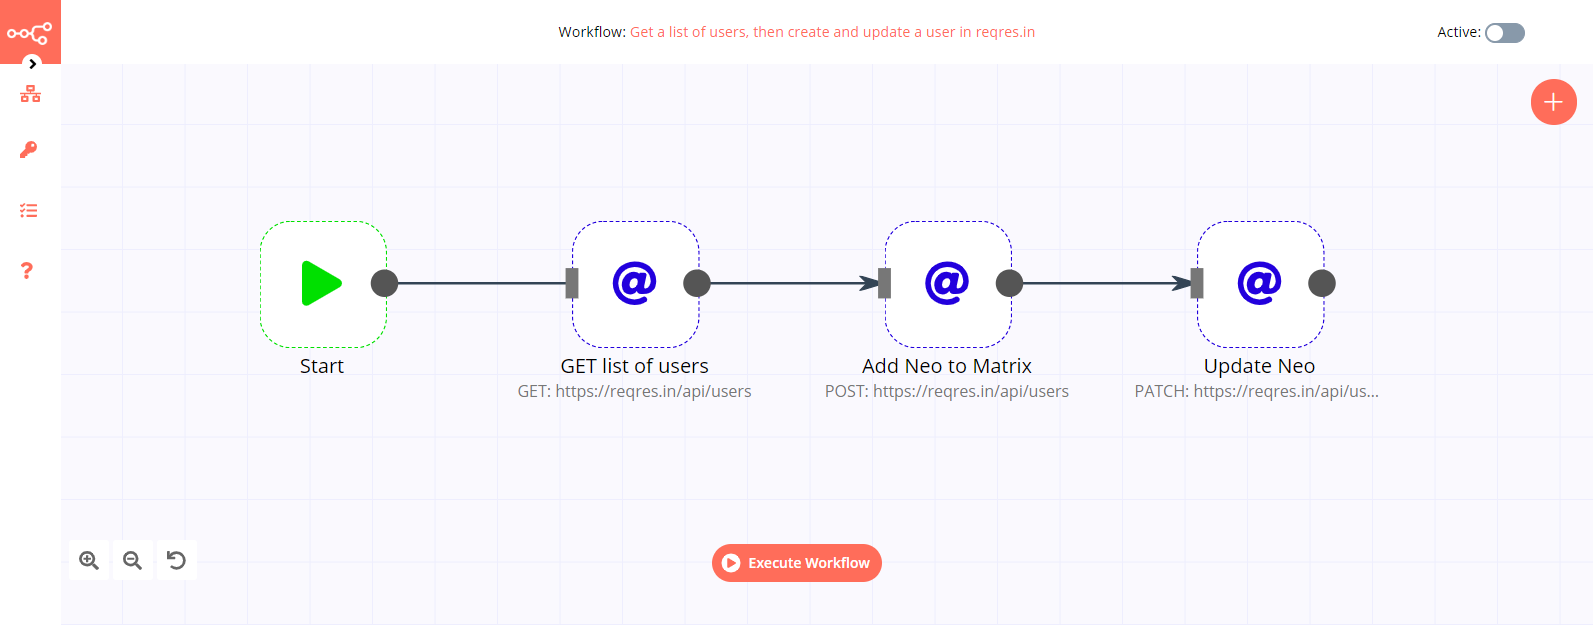
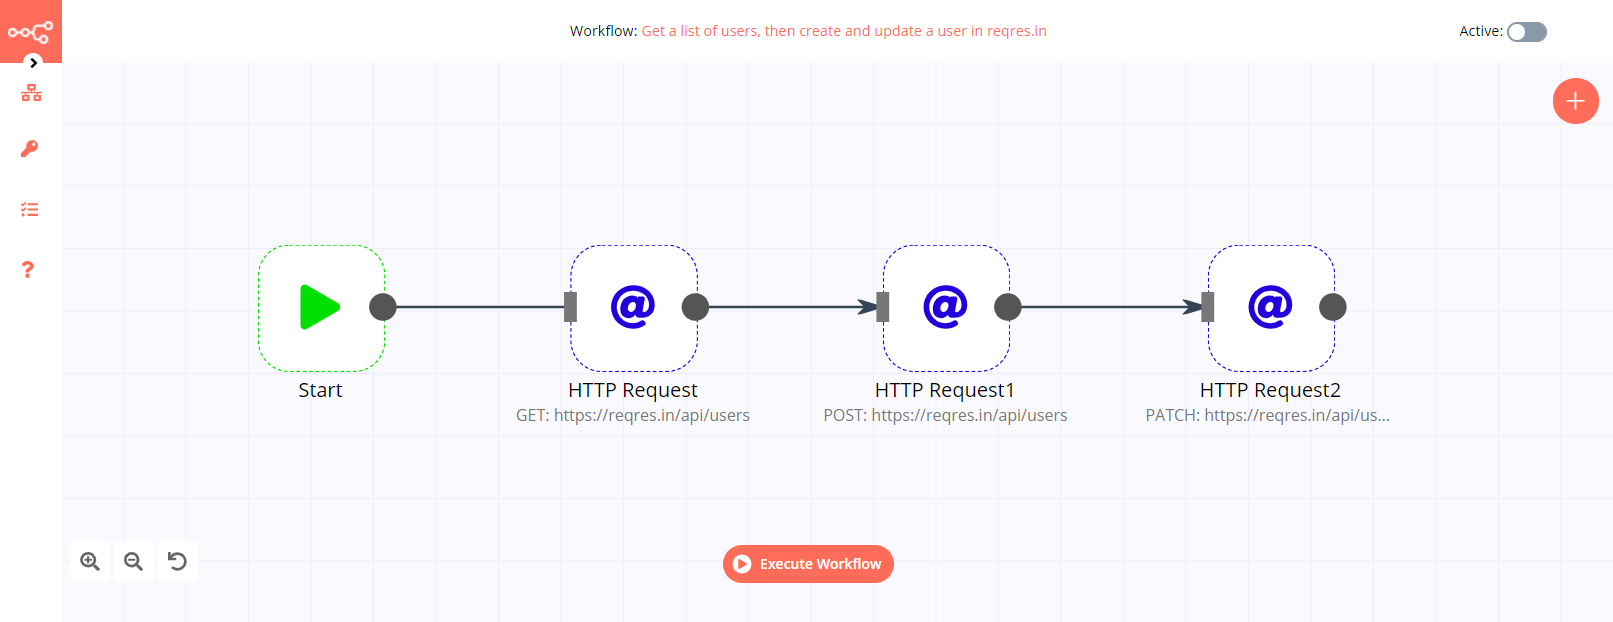
:bug: Updated Screenshots for HTTP Request docs

diff --git a/docs/nodes/nodes-library/core-nodes/HTTPRequest/README.md b/docs/nodes/nodes-library/core-nodes/HTTPRequest/README.md
@@ -57,7 +57,7 @@ The start node exists by default when you create a new workflow.
 1. Enter `https://reqres.in/api/users` in the ***URL*** field.
 2. Click on ***Execute Node*** to run the workflow.
 
-![Get a list of sample users using the HTTP Request node](./GET-list-of-users_node.png)
+![Get a list of sample users using the HTTP Request node](./HTTPRequest_node.png)
 
 
 ### 3. HTTP Request node (POST)
@@ -72,7 +72,7 @@ The start node exists by default when you create a new workflow.
 8. Enter `Programmer` in the ***Value*** field.
 9. Click on ***Execute Node*** to run the workflow.
 
-![Create a user using the HTTP Request node](./Add-Neo-to-Matrix_node.png)
+![Create a user using the HTTP Request node](./HTTPRequest1_node.png)
 
 
 ### 4. HTTP Request node (PATCH)
@@ -87,7 +87,7 @@ The start node exists by default when you create a new workflow.
 8. Enter `The Chosen One` in the ***Value*** field.
 9. Click on ***Execute Node*** to run the workflow.
 
-![Update a user using the HTTP Request node](./Update-Neo_node.png)
+![Update a user using the HTTP Request node](./HTTPRequest2_node.png)
 
 
 ## Further Reading
